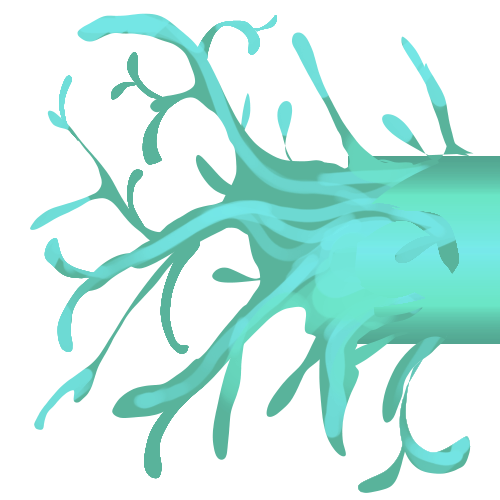
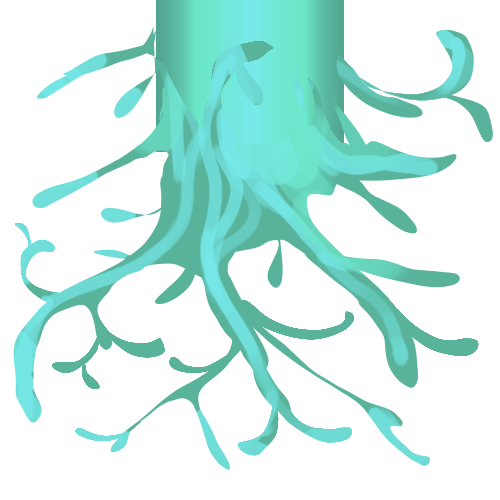
Rotated some of the vine images. Implemented the image changing system (untested).

diff --git a/Assets/Scripts/Cells/CellVisuals.cs b/Assets/Scripts/Cells/CellVisuals.cs
@@ -18,9 +18,102 @@ public class CellVisuals : MonoBehaviour
 
 
         //TODO: Logic for selecting the thing
-        if (_cell.IsAlive) _image.sprite = _cellSpriteManager.GetSprite(CellSpriteManager.Shape.Plus);
-        else _image.sprite = _cellSpriteManager.GetSprite(CellSpriteManager.Shape.Empty);
+        Cell[] neighbors = _cell.GetNeighbors();
 
+        bool up = neighbors[6]==null ? false : neighbors[6].IsAlive;
+        bool right = neighbors[4] == null ? false : neighbors[4].IsAlive;
+        bool down = neighbors[1] == null ? false : neighbors[1].IsAlive;
+        bool left = neighbors[3] == null ? false : neighbors[3].IsAlive;
+
+        if (_cell.IsAlive)
+        {
+            if (up && right && down && left)
+            {
+                _image.sprite = _cellSpriteManager.GetSprite(CellSpriteManager.Shape.Plus);
+                RotateImage(0f);
+            }
+            else if (up && right && down)
+            {
+                _image.sprite = _cellSpriteManager.GetSprite(CellSpriteManager.Shape.T);
+                RotateImage(0f);
+            }
+            else if (right && down && left)
+            {
+                _image.sprite = _cellSpriteManager.GetSprite(CellSpriteManager.Shape.T);
+                RotateImage(90f);
+            }
+            else if (down && left && up)
+            {
+                _image.sprite = _cellSpriteManager.GetSprite(CellSpriteManager.Shape.T);
+                RotateImage(180f);
+            }
+            else if (left && up && right)
+            {
+                _image.sprite = _cellSpriteManager.GetSprite(CellSpriteManager.Shape.T);
+                RotateImage(270f);
+            }
+            else if (up && right)
+            {
+                _image.sprite = _cellSpriteManager.GetSprite(CellSpriteManager.Shape.L);
+                RotateImage(0f);
+            }
+            else if (right && down)
+            {
+                _image.sprite = _cellSpriteManager.GetSprite(CellSpriteManager.Shape.L);
+                RotateImage(90f);
+            }
+            else if (down && left)
+            {
+                _image.sprite = _cellSpriteManager.GetSprite(CellSpriteManager.Shape.L);
+                RotateImage(180f);
+            }
+            else if (left && up)
+            {
+                _image.sprite = _cellSpriteManager.GetSprite(CellSpriteManager.Shape.L);
+                RotateImage(270f);
+            }
+            else if (up && down)
+            {
+                _image.sprite = _cellSpriteManager.GetSprite(CellSpriteManager.Shape.I);
+                RotateImage(0f);
+            }
+            else if (right && left)
+            {
+                _image.sprite = _cellSpriteManager.GetSprite(CellSpriteManager.Shape.I);
+                RotateImage(180f);
+            }
+            else if (up)
+            {
+                _image.sprite = _cellSpriteManager.GetSprite(CellSpriteManager.Shape.Seed);
+                RotateImage(0f);
+            }
+            else if (right)
+            {
+                _image.sprite = _cellSpriteManager.GetSprite(CellSpriteManager.Shape.Seed);
+                RotateImage(90f);
+            }
+            else if (down)
+            {
+                _image.sprite = _cellSpriteManager.GetSprite(CellSpriteManager.Shape.Seed);
+                RotateImage(180f);
+            }
+            else if (left)
+            {
+                _image.sprite = _cellSpriteManager.GetSprite(CellSpriteManager.Shape.Seed);
+                RotateImage(270f);
+            }
+        }
+        else
+        {
+            _image.sprite = _cellSpriteManager.GetSprite(CellSpriteManager.Shape.Empty);
+            RotateImage(0f);
+        }
+
+    }
+
+    private void RotateImage(float z)
+    {
+        _image.gameObject.transform.eulerAngles = new Vector3(_image.gameObject.transform.eulerAngles.x, _image.gameObject.transform.eulerAngles.y, _image.gameObject.transform.eulerAngles.z - z);
     }
 
     public Vector2 GetSize()
